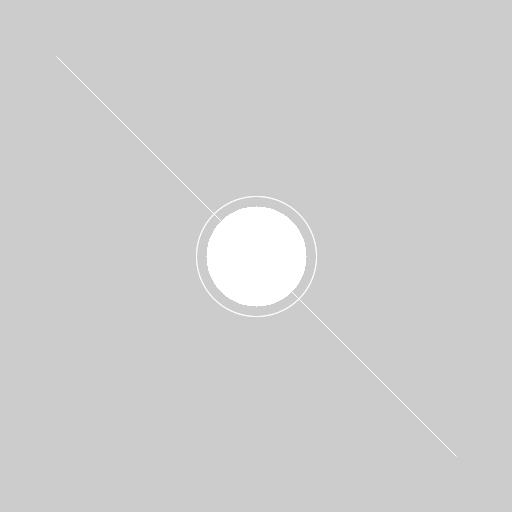
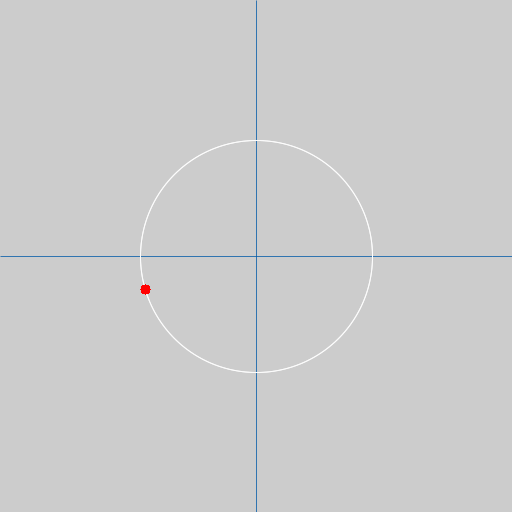
Add files via upload

diff --git a/Draw/Draw.c b/Draw/Draw.c
@@ -15,6 +15,74 @@
 #define fpart(x) ((x) - floorf(x))
 #define rfpart(x) (1.0f - fpart(x))
 //clear && gcc Draw.c -lm -lgmp -o m.o && ./m.o
+typedef struct circle_struct *Circle;
+struct circle_struct
+{
+	int circumference;
+	int index;
+	double x;
+	double y;
+	double radius;
+	int drawX;
+	int drawY;
+	int drawRadius;
+	uint32_t circumferenceColor;
+	uint32_t radiusColor;
+	uint32_t fillColor;
+};
+Circle CreateCircle(int circumference)
+{
+	Circle circle = malloc(sizeof(struct circle_struct));
+	circle->circumference = circumference;
+	circle->index = 0;
+	circle->x = 0;
+	circle->y = 0;
+	circle->radius = circumference / (2.0 * M_PI);
+	circle->drawX = 0;
+	circle->drawY = 0;
+	return circle;
+}
+
+void PrintCircle(Circle circle)
+{
+	if(circle)
+	{
+		//printf("(%d %.3f, %.3f)", circle->index,circle->x,circle->y);
+		printf("%3d,", circle->index);
+	}
+}
+
+void DestroyCircle(Circle circle)
+{
+	if(circle)
+	{
+		free(circle);
+	}
+}
+
+void GetPointOnCircle(int circumference, int index, double *x, double *y)
+{
+	index %= circumference;
+	if(index < -1){index = circumference - index;}
+	double angleInRadians = (2.0 * M_PI * index) / circumference;  // angleInRadians in radians
+	double radius = circumference / (2.0 * M_PI);
+
+	*x = radius * cos(angleInRadians);
+	*y = radius * sin(angleInRadians);
+}
+
+void FillCircle(Circle circle, int index, int height, int width, float scale)
+{
+	assert(scale != 0.0f);
+	double x = 0;double y = 0;
+	GetPointOnCircle(circle->circumference, index, &x, &y);
+	circle->x = x;
+	circle->y = y;
+	circle->drawX = (int)(x * scale);
+	circle->drawY = (int)(y * scale);
+	circle->drawRadius = (int)(circle->radius * scale);
+	circle->index = index;
+}
 
 void ConvertToGridCoordinates(int *x, int *y, int height, int width)
 {
@@ -58,8 +126,12 @@ void SetGrayPixel(int inputX, int inputY, uint8_t brightness, uint8_t alpha, int
 {
 	SetPixelRGBA(inputX, inputY, height, width, image,brightness, brightness, brightness, alpha);
 }
-void DrawWuLine(int x0, int y0, int x1, int y1, int height, int width, uint8_t *image)
+void DrawWuLine(int x0, int y0, int x1, int y1, int height, int width, uint8_t *image, uint32_t rgbaColor)
 {
+	uint8_t r = (rgbaColor >> 24) & 0xFF;
+	uint8_t g = (rgbaColor >> 16) & 0xFF;
+	uint8_t b = (rgbaColor >> 8)  & 0xFF;
+	uint8_t a = (rgbaColor >> 0)  & 0xFF;
 	int steep = abs(y1 - y0) > abs(x1 - x0);
 	if(steep){int tmp;tmp = x0; x0 = y0; y0 = tmp;tmp = x1; x1 = y1; y1 = tmp;}
 	if(x0 > x1){int tmp;tmp = x0; x0 = x1; x1 = tmp;tmp = y0; y0 = y1; y1 = tmp;}
@@ -75,15 +147,15 @@ void DrawWuLine(int x0, int y0, int x1, int y1, int height, int width, uint8_t *
 	int xPixel1 = (int)xEnd;
 	int yPixel1 = ipart(yEnd);
 
-	if (steep)
+	if(steep)
 	{
-		SetGrayPixel(yPixel1, xPixel1, 255, (uint8_t)(rfpart(yEnd) * xGap * 255), height, width, image);
-		SetGrayPixel(yPixel1 + 1, xPixel1, 255, (uint8_t)(fpart(yEnd) * xGap * 255), height, width, image);
+		SetPixelRGBA(yPixel1, xPixel1, height, width, image, r, g, b, (uint8_t)(rfpart(yEnd) * xGap * a));
+		SetPixelRGBA(yPixel1 + 1, xPixel1, height, width, image, r, g, b, (uint8_t)(fpart(yEnd) * xGap * a));
 	}
 	else
 	{
-		SetGrayPixel(xPixel1, yPixel1, 255, (uint8_t)(rfpart(yEnd) * xGap * 255), height, width, image);
-		SetGrayPixel(xPixel1, yPixel1 + 1, 255, (uint8_t)(fpart(yEnd) * xGap * 255), height, width, image);
+		SetPixelRGBA(xPixel1, yPixel1, height, width, image, r, g, b, (uint8_t)(rfpart(yEnd) * xGap * a));
+		SetPixelRGBA(xPixel1, yPixel1 + 1, height, width, image, r, g, b, (uint8_t)(fpart(yEnd) * xGap * a));
 	}
 
 	float intery = yEnd + gradient;
@@ -95,43 +167,48 @@ void DrawWuLine(int x0, int y0, int x1, int y1, int height, int width, uint8_t *
 	int xPixel2 = (int)xEnd;
 	int yPixel2 = ipart(yEnd);
 
-	if (steep)
+	if(steep)
 	{
-		SetGrayPixel(yPixel2, xPixel2, 255, (uint8_t)(rfpart(yEnd) * xGap * 255), height, width, image);
-		SetGrayPixel(yPixel2 + 1, xPixel2, 255, (uint8_t)(fpart(yEnd) * xGap * 255), height, width, image);
+		SetPixelRGBA(yPixel2, xPixel2, height, width, image, r, g, b, (uint8_t)(rfpart(yEnd) * xGap * a));
+		SetPixelRGBA(yPixel2 + 1, xPixel2, height, width, image, r, g, b, (uint8_t)(fpart(yEnd) * xGap * a));
 	}
 	else
 	{
-		SetGrayPixel(xPixel2, yPixel2, 255, (uint8_t)(rfpart(yEnd) * xGap * 255), height, width, image);
-		SetGrayPixel(xPixel2, yPixel2 + 1, 255, (uint8_t)(fpart(yEnd) * xGap * 255), height, width, image);
+		SetPixelRGBA(xPixel2, yPixel2, height, width, image, r, g, b, (uint8_t)(rfpart(yEnd) * xGap * a));
+		SetPixelRGBA(xPixel2, yPixel2 + 1, height, width, image, r, g, b, (uint8_t)(fpart(yEnd) * xGap * a));
 	}
 
 	// Main loop
 	for (int x = xPixel1 + 1; x < xPixel2; x++)
 	{
 		int y = ipart(intery);
-		if(steep)
+		if (steep)
 		{
-			SetGrayPixel(y, x, 255, (uint8_t)(rfpart(intery) * 255), height, width, image);
-			SetGrayPixel(y + 1, x, 255, (uint8_t)(fpart(intery) * 255), height, width, image);
+			SetPixelRGBA(y, x, height, width, image, r, g, b, (uint8_t)(rfpart(intery) * a));
+			SetPixelRGBA(y + 1, x, height, width, image, r, g, b, (uint8_t)(fpart(intery) * a));
 		}
 		else
 		{
-			SetGrayPixel(x, y, 255, (uint8_t)(rfpart(intery) * 255), height, width, image);
-			SetGrayPixel(x, y + 1, 255, (uint8_t)(fpart(intery) * 255), height, width, image);
+			SetPixelRGBA(x, y, height, width, image, r, g, b, (uint8_t)(rfpart(intery) * a));
+			SetPixelRGBA(x, y + 1, height, width, image, r, g, b, (uint8_t)(fpart(intery) * a));
 		}
 		intery += gradient;
 	}
 }
 
-void DrawFilledCircle(int inputX, int inputY, int radius, int height, int width, uint8_t *image)
+void DrawFilledCircle(int inputX, int inputY, int radius, int height, int width, uint8_t *image, uint32_t rgbaColor)
 {
-	for (int y = -radius; y <= radius; y++)
+	uint8_t r = (rgbaColor >> 24) & 0xFF;
+	uint8_t g = (rgbaColor >> 16) & 0xFF;
+	uint8_t b = (rgbaColor >> 8)  & 0xFF;
+	uint8_t a = (rgbaColor >> 0)  & 0xFF;
+
+	for(int y = -radius; y <= radius; y++)
 	{
 		int xSpan = (int)sqrtf(radius * radius - y * y);
 		for(int x = -xSpan; x <= xSpan; x++)
 		{
-			SetPixelRGBA(inputX + x, inputY + y, height, width, image, 255, 255, 255, 255);
+			SetPixelRGBA(inputX + x, inputY + y, height, width, image, r, g, b, a);
 		}
 	}
 }
@@ -173,6 +250,23 @@ void FillBackground(uint8_t *image, int height, int width, uint8_t r, uint8_t g,
 	}
 }
 
+void ModuloCircle(uint8_t *image, int height, int width, int residue,int modulus)
+{
+	float scale = 1.0f;
+	uint32_t axisColor = 5875906;
+	uint32_t dotColor0 = 4278190335;
+	int dotRadius = 5;
+	Circle finiteField = CreateCircle(modulus);
+	FillCircle(finiteField, residue, height,width,scale);
+	//Draw axes
+	DrawWuLine(-width / 2, 0, width / 2, 0, height, width, image, axisColor);  // Horizontal center line
+	DrawWuLine(0, -height / 2, 0, height / 2, height, width, image, axisColor); // Vertical center line
+	//Draw finite field
+	DrawAACircle(0, 0, (float) finiteField->drawRadius, height, width, image);          
+	//Draw current residue
+	DrawFilledCircle(finiteField->drawX, finiteField->drawY, dotRadius, height, width, image,dotColor0);         
+	DestroyCircle(finiteField);
+}
 
 int main()
 {
@@ -184,9 +278,12 @@ int main()
 	//Background color
 	FillBackground(image, height, width, 204, 204, 204, 255);
 	 
-	DrawFilledCircle(0, 0, 50, height, width, image);         
-	DrawAACircle(0, 0, 60.0f, height, width, image);          
-	DrawWuLine(-200, 200, 200, -200, height, width, image);
+	//Generate Circle
+	int residue = 400;
+	int modulus = 731;
+	ModuloCircle(image, height, width, residue, modulus);
+	
+
 
 	stbi_write_png(fileName, width, height, channels, image, width * channels);
 	free(image);
